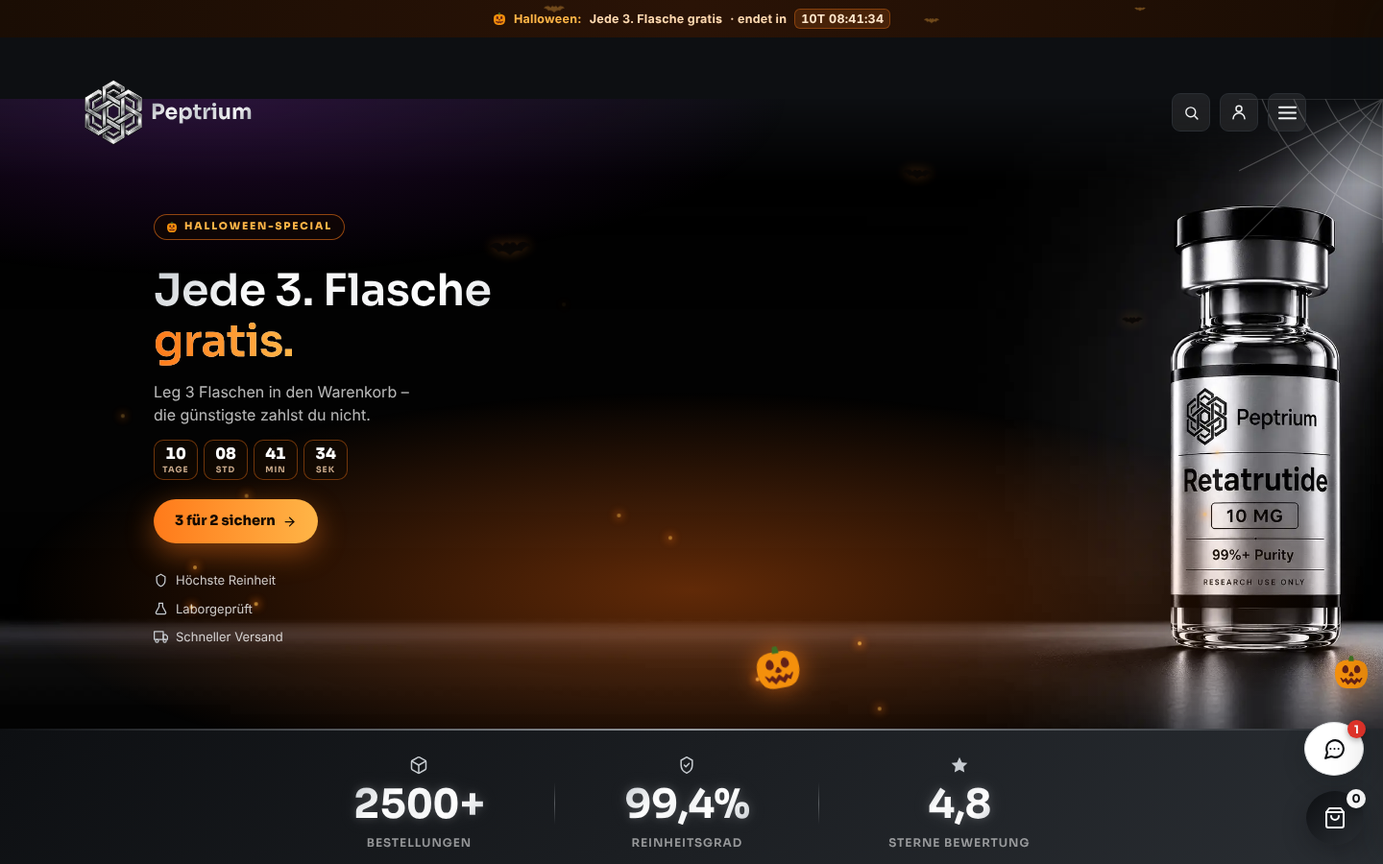
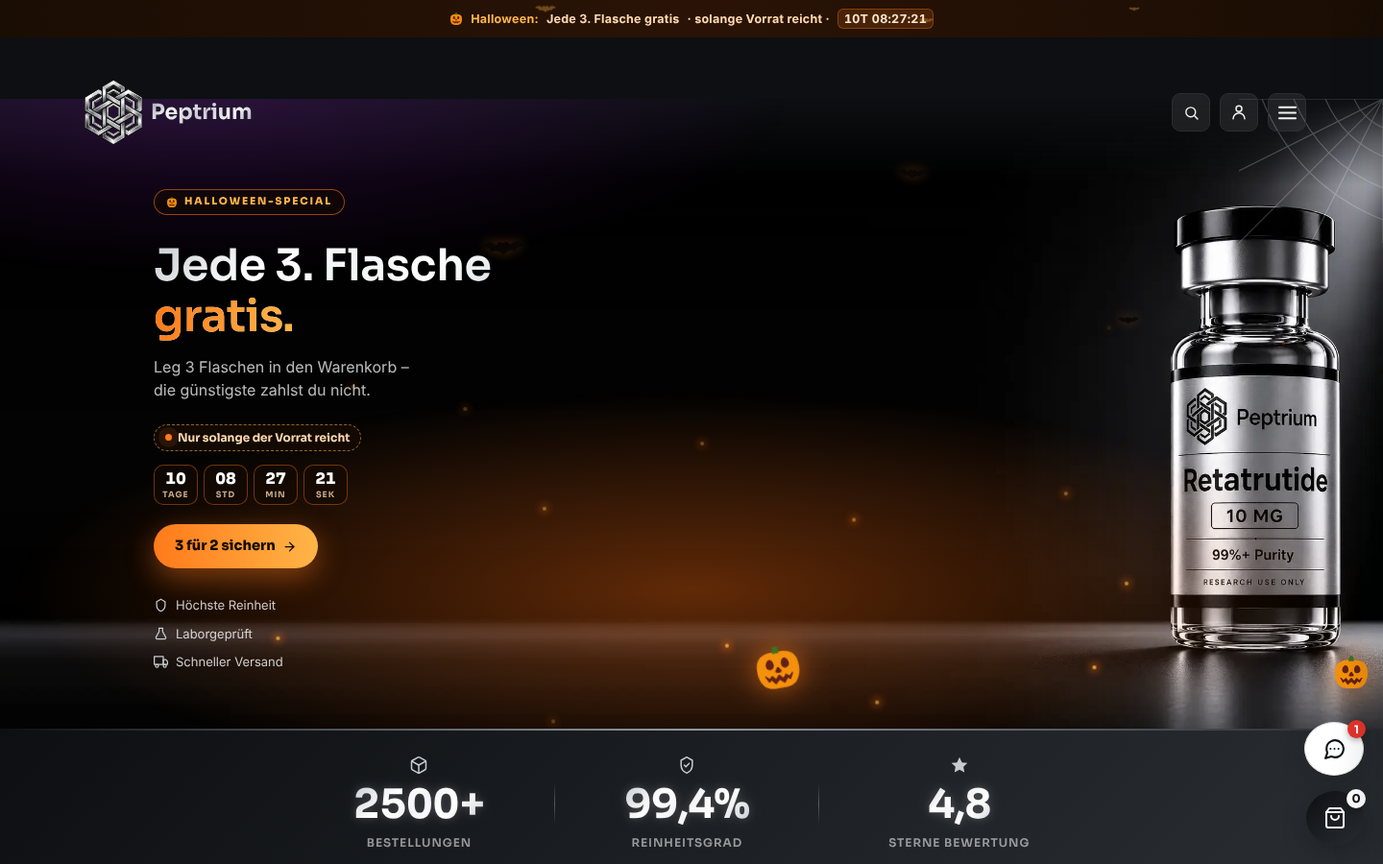
Halloween: Hinweis 'solange der Vorrat reicht'
Claude-Session: https://claude.ai/code/session_011YY7DBkbr5BcFGKyLoSbVN

Changed region(s): [[0.0938, 0.2178, 0.375, 0.7778], [0.3125, 0.0, 0.6875, 0.0311]]

diff --git a/drafts/halloween-2026-10-22/sp-halloween.php b/drafts/halloween-2026-10-22/sp-halloween.php
@@ -378,10 +378,14 @@ add_action('wp_head', function () {
 .sp-hw-ey{display:inline-flex;align-items:center;gap:7px;font:800 10.5px/1 Sora,-apple-system,sans-serif;letter-spacing:.18em;color:#FFB547;border:1px solid rgba(255,122,26,.55);background:rgba(20,10,2,.55);-webkit-backdrop-filter:blur(6px);backdrop-filter:blur(6px);border-radius:99px;padding:7px 12px;margin:0 0 12px}
 .sp-hw-g{background:linear-gradient(90deg,#FF7A1A,#FFB547)!important;-webkit-background-clip:text!important;background-clip:text!important;color:transparent!important;-webkit-text-fill-color:transparent!important}
 .sp-hero2-cta.sp-hw-cta,#sp-hero-banner .sp-hb-cta.sp-hw-cta{background:linear-gradient(90deg,#FF7A1A,#FFB547)!important;color:#140A02!important;font-weight:800!important;box-shadow:0 10px 30px rgba(255,122,26,.45)!important}
-.sp-hero2-cta-wrap.sp-hw-cw{flex-direction:column;align-items:center;gap:10px}
+.sp-hero2-cta-wrap.sp-hw-cw{flex-direction:column;align-items:center;gap:8px;bottom:64px!important}
 .sp-hw-hcd{display:flex;gap:6px;justify-content:center}
 .sp-hw-hcd span{min-width:46px;text-align:center;background:rgba(20,10,2,.6);-webkit-backdrop-filter:blur(8px);backdrop-filter:blur(8px);border:1px solid rgba(255,122,26,.4);border-radius:10px;padding:6px 4px;font:800 16px/1 Sora,-apple-system,sans-serif;color:#fff;font-variant-numeric:tabular-nums}
 .sp-hw-hcd small{display:block;font-size:8.5px;letter-spacing:.12em;color:#C9A98A;margin-top:4px;font-weight:700}
+.sp-hw-vr{display:inline-flex;align-items:center;gap:6px;margin-top:10px;font:700 12px/1 Sora,-apple-system,sans-serif;color:#FFD9B0;background:rgba(20,10,2,.88);border:1px dashed rgba(255,181,71,.55);border-radius:99px;padding:7px 11px}
+.sp-hw-cw .sp-hw-vr{margin-top:0}
+.sp-hw-vr i{width:7px;height:7px;border-radius:50%;background:#FF7A1A;box-shadow:0 0 0 0 rgba(255,122,26,.7);animation:sphwvr 1.6s infinite}
+@keyframes sphwvr{0%{box-shadow:0 0 0 0 rgba(255,122,26,.7)}70%{box-shadow:0 0 0 8px rgba(255,122,26,0)}100%{box-shadow:0 0 0 0 rgba(255,122,26,0)}}
 .sp-hw-hov{position:absolute;inset:0;pointer-events:none;z-index:0;overflow:hidden}
 .sp-hw-hov:before{content:'';position:absolute;inset:0;background:radial-gradient(70% 45% at 50% 78%,rgba(255,110,20,.38) 0%,rgba(255,110,20,0) 70%),radial-gradient(60% 40% at 15% 0%,rgba(110,30,150,.30) 0%,rgba(110,30,150,0) 70%);mix-blend-mode:screen}
 .sp-hw-hov .web{position:absolute;right:0;top:0;width:150px;height:150px;opacity:.22;transform:scaleX(-1)}
@@ -442,14 +446,14 @@ var bat='<svg viewBox="0 0 24 12" class="sp-hw-bat XX"><path d="M0 4C3 1 6 1 8 3
 var tb=document.getElementById('sp-top-banner');
 if(tb){tb.classList.add('sp-hw');var a=document.createElement('a');a.id='sp-hw-tb';a.href='/alle-produkte/';
  tb.insertAdjacentHTML('beforeend',bat.replace('XX','b1')+bat.replace('XX','b2')+bat.replace('XX','b3'));tb.appendChild(a);
- var tick=function(){if(live){var l=left(C.end);a.innerHTML='🎃 <b>Halloween:</b> Jede 3. Flasche gratis <span class="lg">· endet in</span> <span class="cd">'+(l.d?l.d+'T ':'')+pad(l.h)+':'+pad(l.m)+':'+pad(l.s)+'</span>';}
+ var tick=function(){if(live){var l=left(C.end);a.innerHTML='🎃 <b>Halloween:</b> Jede 3. Flasche gratis <span class="lg">· solange Vorrat reicht ·</span> <span class="cd">'+(l.d?l.d+'T ':'')+pad(l.h)+':'+pad(l.m)+':'+pad(l.s)+'</span>';}
   else{a.innerHTML='🎃 <b>Halloween-Special</b> ab '+C.startT+' <span class="lg">· Newsletter: schon '+C.earlyT+'</span>';}};
  tick();setInterval(tick,1000);}
 /* Streifen Startseite / Kategorie */
 function strip(mini){var s=document.createElement('section');s.className='sp-hw-strip'+(mini?' mini':'');
  var web='<svg class="web" viewBox="0 0 100 100" fill="none" stroke="#fff" stroke-width=".8"><path d="M0 0L100 100M0 0L50 100M0 0L100 50M0 0L0 100M0 0L100 0"/><path d="M0 20Q14 14 20 0M0 40Q28 28 40 0M0 62Q44 44 62 0M0 84Q60 60 84 0"/></svg>';
  if(live){s.innerHTML=web+'<div class="in"><span class="ey">🎃 HALLOWEEN-SPECIAL'+(C.state==='early'?' · EARLY ACCESS':'')+'</span><h2>Jede 3. Flasche <span>gratis.</span></h2>'
-  +(mini?'<p>Leg 3 Flaschen in den Warenkorb – die günstigste zahlst du nicht. Endet '+C.endT+' Uhr.</p>':'<p>Leg 3 Flaschen in den Warenkorb – die günstigste zahlst du nicht. Gilt für alle vorrätigen Peptid-Flaschen, auch gemischt. Nur bis '+C.endT+' Uhr.</p><div class="sp-hw-cd" id="sp-hw-cd2"></div><a class="sp-hw-btn" href="/alle-produkte/">Flaschen wählen →</a>')+'</div><div class="pk">🎃</div>';}
+  +(mini?'<p>Leg 3 Flaschen in den Warenkorb – die günstigste zahlst du nicht. Bis '+C.endT+' Uhr, solange der Vorrat reicht.</p>':'<p>Leg 3 Flaschen in den Warenkorb – die günstigste zahlst du nicht. Gilt für alle vorrätigen Peptid-Flaschen, auch gemischt. Nur bis '+C.endT+' Uhr und solange der Vorrat reicht.</p><div class="sp-hw-cd" id="sp-hw-cd2"></div><a class="sp-hw-btn" href="/alle-produkte/">Flaschen wählen →</a>')+'</div><div class="pk">🎃</div>';}
  else{s.innerHTML=web+'<div class="in"><span class="ey">🎃 BALD: HALLOWEEN-SPECIAL</span><h2>Jede 3. Flasche <span>gratis.</span></h2><p>Ab '+C.startT+' für alle. Newsletter-Abonnenten bekommen es schon '+C.earlyT+'.</p>'
   +(mini?'':'<a class="sp-hw-btn" href="#sp-nlh">Newsletter – früher dabei sein →</a>')+'</div><div class="pk">🎃</div>';}
  return s;}
@@ -467,6 +471,8 @@ if(C.home){var ht=0,hi=setInterval(function(){
  if(sub)sub.innerHTML=live?(mob?'Die günstigste zahlst du nicht.':'Leg 3 Flaschen in den Warenkorb –<br>die günstigste zahlst du nicht.'):(mob?'Ab '+C.startT+' · Insider schon '+C.earlyT:'Ab '+C.startT+' für alle.<br>Newsletter-Abonnenten schon '+C.earlyT+'.');
  if(cta){cta.classList.add('sp-hw-cta');if(live){cta.firstChild.nodeValue='3 für 2 sichern ';}else{cta.setAttribute('href','#sp-nlh');cta.firstChild.nodeValue='Früher dabei sein ';}
   var cw=cta.parentElement;if(mob&&cw)cw.classList.add('sp-hw-cw');
+  var vr='<div class="sp-hw-vr"><i></i>'+(live?'Nur solange der Vorrat reicht':'Begrenzter Vorrat – Insider kaufen zuerst')+'</div>';
+  if(mob&&cw)cw.insertAdjacentHTML('afterbegin',vr);else if(sub)sub.insertAdjacentHTML('afterend',vr);
   if(live){var hc=document.createElement('div');hc.className='sp-hw-hcd';cta.insertAdjacentElement('beforebegin',hc);
    var t3=function(){var l=left(C.end);hc.innerHTML='<span>'+l.d+'<small>TAGE</small></span><span>'+pad(l.h)+'<small>STD</small></span><span>'+pad(l.m)+'<small>MIN</small></span><span>'+pad(l.s)+'<small>SEK</small></span>';};t3();setInterval(t3,1000);}}
  if(wrap){var ov=document.createElement('div');ov.className='sp-hw-hov';var em='';for(var k=0;k<14;k++){em+='<i style="left:'+(5+Math.random()*90).toFixed(1)+'%;animation-delay:-'+(Math.random()*7).toFixed(2)+'s;animation-duration:'+(5+Math.random()*4).toFixed(2)+'s"></i>';}
@@ -480,7 +486,7 @@ var cd2=document.getElementById('sp-hw-cd2');if(cd2){var t2=function(){var l=lef
 (function(){var n=0,pi=setInterval(function(){var pp=document.getElementById('sp-nlp');if(!pp){if(++n>40)clearInterval(pi);return;}clearInterval(pi);
  var h=pp.querySelectorAll('.st[data-s="1"] h2,.st[data-s="2"] h2'),p1=pp.querySelector('.st[data-s="1"] p');
  if(live){h.forEach(function(e){e.innerHTML='Sichere dir <em>10 % Rabatt</em><br>für deine nächste Bestellung';});if(p1)p1.textContent='Halloween läuft gerade – dein persönlicher Code gilt danach noch 30 Tage. Dazu Neuheiten und Aktionen zuerst.';}
- else{h.forEach(function(e){e.innerHTML='🎃 Halloween <em>früher</em><br>für Insider';});if(p1)p1.textContent='Jede 3. Flasche gratis – als Newsletter-Abonnent bist du schon '+C.earlyT+' dabei, alle anderen erst ab '+C.startT+' Dazu dein 10-%-Code für später.';
+ else{h.forEach(function(e){e.innerHTML='🎃 Halloween <em>früher</em><br>für Insider';});if(p1)p1.textContent='Jede 3. Flasche gratis – als Newsletter-Abonnent bist du schon '+C.earlyT+' dabei, alle anderen erst ab '+C.startT+' Der Vorrat ist begrenzt – Insider haben die erste Wahl. Dazu dein 10-%-Code für später.';
  var b1=pp.querySelector('.st[data-s="1"] button');if(b1&&!/nein/i.test(b1.textContent))b1.textContent='Ja, früher dabei sein';}
 },150);})();
 if(!live)return;
@@ -499,7 +505,7 @@ var own=0;function fix(){if(own||!tot||!qf||!pe)return;var q=parseInt(qf.value,1
  own=1;tot.textContent=fm(u*(q-fr)+add);if(sav){if(fr>0){sav.style.display='';sav.textContent='🎃 '+fr+'× gratis – du sparst '+fm(u*fr);}else{sav.style.display='none';}}setTimeout(function(){own=0},0);}
 if(C.pp&&tot){new MutationObserver(fix).observe(tot,{childList:true,characterData:true,subtree:true});fix();}
 /* Buybox-Hinweis */
-if(C.pp){var bb=document.getElementById('rx-buybox');if(bb&&!document.getElementById('sp-hw-bb')){bb.insertAdjacentHTML('afterbegin','<div id="sp-hw-bb"><b>🎃 HALLOWEEN-SPECIAL</b>Jede 3. Flasche gratis – leg 3 Flaschen in den Warenkorb, die günstigste zahlst du nicht. Auch gemischt mit anderen Peptiden.</div>');}}
+if(C.pp){var bb=document.getElementById('rx-buybox');if(bb&&!document.getElementById('sp-hw-bb')){bb.insertAdjacentHTML('afterbegin','<div id="sp-hw-bb"><b>🎃 HALLOWEEN-SPECIAL</b>Jede 3. Flasche gratis – leg 3 Flaschen in den Warenkorb, die günstigste zahlst du nicht. Auch gemischt mit anderen Peptiden. Nur solange der Vorrat reicht.</div>');}}
 /* Warenkorb-Hinweis */
 var busy=0;function cart(){if(busy)return;busy=setTimeout(function(){busy=0;fetch('/wp-json/wc/store/v1/cart',{credentials:'same-origin'}).then(function(r){return r.json()}).then(function(c){
  var n=0;(c.items||[]).forEach(function(it){if(ids[it.id]&&parseInt(it.prices&&it.prices.regular_price||0,10)>0&&!(it.item_data||[]).some(function(d){return /Geschenk/i.test(d.name||d.key||'')}))n+=it.quantity;});

diff --git a/CLAUDE.md b/CLAUDE.md
@@ -248,7 +248,7 @@ ones with established, understood behavior from this engagement. Run a
 | `sp-ek-marge.php` | (2026-10-18, live, user: "brutto bzw richtigen netto Umsatz abzüglich EK") **Peptrium Dashboard → Umsatz & Marge** — **redesigned 2026-10-18 (user: 'komplett verwirrend … schöner')**: page title 'Umsatz & Gewinn', period chips, 3 cards with waterfall rows (`.spm-*` CSS, bars = share of revenue, one-line 'why' per row): 1. 'Was du verdient hast' Umsatz − Ware − Provisionen − Versand & Verpackung = Gewinn; 2. 'Was davon wirklich auf dem Konto ist' Eingenommen − Einkäufe bezahlt − An Partner überwiesen − Versand = Geld übrig + 'Warum anders als der Gewinn?' (Einkäufe − Wareneinsatz = mehr eingekauft als verkauft; Provision verdient − überwiesen); 3. 'Wenn das Lager verkauft wird' 3 boxes (kommt noch rein Lager / + unterwegs, Geld übrig danach). Product/order/EK tables unchanged below. (`admin.php?page=sp-umsatz-marge`, default this month, quick links Letzter Monat / Seit Start). EK per product/variation in option `sp_ek_items` [post_id => usd/eur/code] — seeded from the user's supplier Excel (column "Flasche $: 1–30"): 555 RT10 9.5 $, 556 RT20 12.2, 1011 CU50 3.3, 1012 CU100 6.5, 71 MS10 7.1, 77 CP10 10, 428 BC10 6.5, 577 BT10 17.5, 578 BT5 9, 434 XA10 8, 437 SK10 8, 515 KP10 6.5, 512 TSM10 18, 521 IG1 20. **Added 2026-10-18 (user prices, €):** pens are assembled in-house from the peptide bottle + pen (10 Stk 25 € → 2,50) + cartridge (30 Stk 14 € → 0,4667) → pen variations 547/548/549 (RT20/30/40), 597/598 (CU50/100), 544/545 (MS20/40) = usd of the bottle + field `add` 2.9667 €; Spritzen 100 Stk 25 € → product 80 (10er) 2,50 €; Pen Nadeln 100 Stk 15 € → 908 (15er) 2,25 €; Injektionskit 745 = ASSUMPTION 10 Spritzen 2,50 € (contents unconfirmed); costs: DHL DE 6,19 / AT 14,90 (`ship_order_at`, by shipping country), packaging 0,20 €/package (100 Stk 20 €), import_pct 0. **Update 2026-10-18:** Bac Water 74 = 1 $ (user); every pen also contains one Bac Water → pen usd = bottle + 1 $; Alkoholtupfer 400 Stk 5 € → Injektionskit 745 = 10 Spritzen + 10 Tupfer = 2,625 € (still an assumption about the contents). ALL bottles (peptides + Bac Water) are bought in USD → keep them in the `usd` field; only Spritzen/Nadeln/Pen/Kartusche/Tupfer/Verpackung/DHL are €. Now every sold item has an EK. Later the same day: Injektionskit 745 = 10 Spritzen + 1 Bac Water + Tupfer (usd = Bac, add 2,625 €); Bac Water shipping 70 $ for 120 bottles → Bac = 1,5833 $ (74, pens = bottle + 1,5833 $, 745). Peptide shipping from the supplier was free; the user will send the stock quantities bought later. All editable in the EK table on that page ($ or €). USD→EUR from open.er-api.com (daily cron `sp_ek_rate_update`, option `sp_ek_rate`, manual override `sp_ek_rate_manual`). Costs option `sp_ek_costs` (import_pct, ship_order, pack_order). On processing/completed the unit EK is written to item meta `_sp_ek_eur` (snapshot, so later EK changes don't rewrite past months); older items use the current EK ("geschätzt"). Old GHK-Cu items (simple product 68) fall back via `sp_bbv_legacy_variation()`. Figures per order (`sp_ek_order_figures()`): Umsatz = total − refunds − top-up part (no VAT — shop has tax off), wallet-paid Abo deliveries count, top-up-only and `_sp_is_test` orders excluded; gifts count toward EK; partner commissions = non-rejected `wp_slicewp_commissions` with reference = order id; line revenue scaled by the partner negative fee. First run (Seit Start, 44 orders): Umsatz 8.093,67 €, EK 499,24 € (97 items without EK!), Provisionen 1.174,81 €. |
 | `sp-lager.php` | (2026-10-18, live, user: "ja richtig") **Peptrium Dashboard → Lager** (`admin.php?page=sp-lager`). Stock on MATERIAL level: option `sp_lager_mats` [code => name, usd|eur, qty (null = not tracked)] — codes = supplier codes (RT10/RT20/RT30/RT40, CU50/CU100, MS10/20/40, CP10, BC10, BT10/BT5, XA10, SK10, KP10, TSM10, IG1, CGL10 Cagrilintide, ML10 Melanotan 2, K80 Klow — the last 3 not in the shop) + BAC (1,5833 $), PEN/KART/SPR/NAD/TUPF (€, not counted yet → null). Recipes `sp_lager_recipes()` per product/variation id (pens = bottle + BAC + PEN + KART; 80 = 10 SPR; 908 = 15 NAD; 745 = 10 SPR + 1 BAC + 10 TUPF; legacy 68 via `sp_bbv_legacy_variation`). Deducted when an order goes to **completed** (= shipped; meta `_sp_lager_out`, only if completed after option `sp_lager_since` = 2026-10-18 12:37), added back on cancelled/refunded/failed. Columns: Bestand, reserviert (processing orders), verfügbar, unterwegs, Verkauf 30 Tage (incl. gifts), reicht noch (yellow < 21 d). Deliveries in option `sp_lager_in` (button "Angekommen – einbuchen"); seeded: Peptid-Lieferant 18.10. (RT10 40, RT20 30, CGL10 10, BC10 10, CU50 40, ML10 10, K80 10, BAC 20) + Bac-Lieferant (BAC 120). Start count 18.10.: RT10 50, RT20 30, CU100 10, BAC 40, all other bottles 0. Warning box lists in-stock shop products whose material is empty (at seed: GHK-Cu 50 + GHK pen 50, MOTS-c 10 + MOTS pens, Reta pens 30/40, CJC) — shop stock status NOT changed automatically (asked the user). Log option `sp_lager_log`. User 2026-10-18: no pre-assembled pens (assembled only when an order comes in → recipe deduction is right); accessories (PEN/KART/SPR/NAD/TUPF) are in stock but NOT counted yet → stay null until the user sends counts. **Purchases are paid when ordered (user 2026-10-18):** each delivery stores `paid` (€, frozen at creation, editable on the card; date = ordered & paid) — seeded 1.248,11 € (1403 $) + 169,02 € (190 $); 'Angekommen' only books stock. `sp_lager_purchases($start,$end)` feeds a **'Geldfluss im Zeitraum'** box in Umsatz & Marge: Eingenommen − Einkäufe bezahlt − An Partner überwiesen (`sp_aff_transfers` by date) − Versand & Verpackung = Geld übrig (the 'Ergebnis' above stays accrual: EK counted when sold). Delivery dates were assumed 18.10. — ask the user for the real order dates/amounts. **Abverkauf-Wert (2026-10-18, user):** tiles 'Umsatz bei Abverkauf – Lager' / '… inkl. unterwegs' + Rohertrag; VK per material = optional field `vk` (column 'VK €') else the shop price of the product whose recipe is exactly [code=>1] (`sp_lager_vk()`; RT20 counted as vial, not pen); regular prices, no discounts/gifts/commission. At build: Lager 9.237 €, incl. unterwegs 19.901,20 €; CGL10/ML10/K80 have no VK (not in shop) → excluded until a VK is entered. **Umsatz & Marge also shows 'Wenn das Lager komplett verkauft wird'** (via `sp_lager_summary()`): Listenpreis → realistic revenue = list × realisation ratio of the last 90 days (line revenue ÷ regular price × qty, catches bundle/partner discounts, codes, gifts; 89 % at build) − commissions at the 90-day share (14,5 %) = 'kommt noch rein'; **EK is NOT deducted there** (user 2026-10-18: purchases are already paid → shown only as grey 'Einkaufswert (schon bezahlt)'), plus 'Geld übrig danach' = Geldfluss 'Geld übrig' of the selected period + 'kommt noch rein'. Shipping not deducted. At build (Oct): kommt noch rein 7.029 € (Lager) / 15.143 € (incl. unterwegs); Geld übrig danach 10.066 € / 18.181 €. Material prices are separate from `sp_ek_items` (duplicate on purpose; keep both in sync when prices change). |
 | `sp-wartung.php` | (2026-10-19, live, OFF by default) **Wartungsmodus** after the AlexHost KVM maintenance reboot (server down ~5 min 19.10. ~15:50 Berlin; all services auto-started, nothing to reconfigure). Peptrium Dashboard → Wartungsmodus (`admin.php?page=sp-wartung`): on/off, page text, auto-off after 30 min/1/2/4 h/never (option `sp_wartung` on/until/text/by/since). When on: visitors get the dark Peptrium maintenance page (logo, "Wir sind gleich wieder für dich da.", 60 s auto-reload, Telegram + mail) with HTTP 503, `Retry-After: 600`, `X-SP-Wartung: 1`, noindex (template_redirect prio −999); admins (`manage_woocommerce`) see the shop + red bottom bar + admin-bar node; untouched: wp-admin, login, REST/Store API, admin-ajax, cron, wc-api, `?sp_health=1`. Preview for admins: `/?sp_wartung_vorschau=1`. Tested live with a 15 s auto-off window. **Unplanned server outage:** WordPress can't answer then → same page as a **Cloudflare Worker** `drafts/wartungsseite-2026-10-19/peptrium-wartung-worker.js` (logo base64-embedded, passes everything through, replaces only HTML GET responses with status 502/503/504/520–526 or a thrown fetch; skips wp-admin/wp-json/wp-content/wp-includes/login/cron, `sp_health`, and 503s carrying `X-SP-Wartung`). Must be created by the user in Cloudflare (Workers & Pages → create → paste → route `peptrium.com/*` + `www.peptrium.com/*`, failure mode open; free plan 100k requests/day — optionally add a route `peptrium.com/wp-content/*` with no Worker to save requests). Logic unit-tested locally with mocked fetch. |
-| `sp-halloween.php` | (2026-10-22, live but **OFF**, user: jede 3. gratis (die günstigste), Partner +5 %, Early Access ja, Halloween-Look, alles mit einem Schalter) **Halloween-Modus** — Peptrium Dashboard → 🎃 Halloween (`admin.php?page=sp-halloween`), option `sp_hw` {on, deko, early/start/end timestamps (default Do 29.10. 18:00 / Fr 30.10. 00:00 / So 1.11. 23:59 Berlin), bonus 5, ea + pv tokens}, log `sp_hw_log`. States `sp_hw_state()`: off/teaser/early (only with EA cookie)/live/ended; `sp_hw_active()` = live or early. **Pricing:** `woocommerce_before_calculate_totals` prio 25 (after sp-quantity-discount 20, before gift tiers 30): eligible units (`sp_hw_product_eligible()`: published, not on sale, not Zubehör cat 20, not `sp_preorder_product_ids()`, not ids 729/817/745/908/74/80/393/395/396; skips gift lines `sp_is_gift` and Abo lines) get their REGULAR price back (cancels the bundle discount), then floor(n/3) cheapest units free via set_price; `line_subtotal` restored to regular (prio 30) so the drawer shows savings; cart item key `sp_hw_free`, item data 'Halloween: N× gratis 🎃', order item meta 'Halloween-Angebot', order meta `_sp_hw` (free count) + `_sp_hw_phase`. Gift tiers count the PAID amount. **Codes:** while active all coupons invalid (`woocommerce_coupon_is_valid` false + `woocommerce_coupon_error` message) EXCEPT partner coupons (`_sp_affiliate_id` meta) which stay valid with 0 € discount (attribution kept, own success message); 10-%-Empfehlungs-Rabatt fee removed (fees prio 98); `slicewp_calculate_commission_amount` prio 30 adds bonus × item amount (at checkout time). **Links:** Early Access `/?sp_hw=frueh&k=<ea>` → cookie `sp_hw_ea` (until end+1 d) → 302 /alle-produkte/ (utm kept); preview `/?sp_hw=vorschau&k=<pv>` → cookie `sp_hw_pv` 24 h = everything live for that browser even when OFF; `/?sp_hw=aus` ends it (links shown on the admin page). **Look (`deko`):** top banner `#sp-top-banner` gets class `sp-hw` + own link `#sp-hw-tb` (countdown / teaser text) + 3 flying bat SVGs; **homepage HERO takeover** (user 2026-10-22: Halloween must be visible without scrolling): JS polls for the mobile hero `.sp-hero2` (sp-home-hero-mobile.php, title/sub/cta) or desktop `#sp-hero-banner .sp-hb-*` and sets eyebrow pill '🎃 HALLOWEEN-SPECIAL', title 'Jede 3. Flasche <orange>gratis.</orange>', sub (mobile short 'Die günstigste zahlst du nicht.' — longer text overlapped the vials), orange CTA '3 für 2 sichern' (teaser: 'Früher dabei sein' → #sp-nlh), countdown chips, overlay `.sp-hw-hov` (orange/purple glow, cobweb, 3 flying bats, rising embers, pumpkins desktop only); the old strip `.sp-hw-strip` is only a fallback if no hero is found; mini strip after the `#sp-cat` hero on categories/alle-produkte; card badge '🎃 3 für 2' on `.sp-pc[data-id]` in `sp_hw_eligible_ids()` (transient `sp_hw_ids_v1` 10 min) + card text 'ab 3 Stück…' → '🎃 Jede 3. Flasche gratis'; drawer 'Bundle −X%' → '🎃 Halloween'; buybox: output buffer (template_redirect prio 7) sets tier data-disc to 0 + labels '1 gratis/1 gratis/3 gratis', flag '🎃 Halloween', JS fixes `#rx-total`/`#rx-save` (buybox JS only knows integer % of the largest tier) + box `#sp-hw-bb`; drawer box `#sp-hw-cd` (Store API cart count, 'Noch N Flaschen, dann ist eine gratis'). Tested 2026-10-22 in preview via Store API (`drafts/halloween-2026-10-22/storetest.sh`): 3× Reta10 → 149,80; 2× Reta20 + GHK50 → GHK free; 6 mixed → 2 cheapest free; TIKTOK10 rejected with message; SCHLANK10 accepted, 0 €; pens/Bac untouched. Eligible at build: CJC, Mots-C, GHK-Cu 50/100, Reta 10/20 (shop stock status — Lager says CJC/Mots/GHK50 bottles are 0!). **Added 2026-10-22 (user: "ja mach"):** (a) newsletter popup copy per phase (JS on `#sp-nlp`): teaser = '🎃 Halloween früher für Insider' + early/start dates + button 'Ja, früher dabei sein'; live = '10 % Rabatt für deine nächste Bestellung' (codes don't work during the action, code valid 30 days); (b) confirming the newsletter during teaser/early (`?sp_nl=danke`, init prio 2) sets the `sp_hw_ea` cookie → early access on that device; (c) checkout row `#sp-hw-co` '🎃 Halloween: N Flasche(n) gratis −X €' before the total (wp.data cart store, throttled subscribe; only when active, independent of `deko`); (d) preview can show the teaser phase: `/?sp_hw=vorschau&s=teaser&k=<pv>` (cookie `sp_hw_pvs`). Note: the checkout item line shows the REGULAR line total (224,70 for 3× Reta) + 'Spare' badge because `line_subtotal` is restored — same as the existing bundle discount behaviour; Zwischensumme is correct. Open: mails (teaser 28.10., early access 29.10. 18:00, last chance), partner info mail, user's go. |
+| `sp-halloween.php` | (2026-10-22, live but **OFF**, user: jede 3. gratis (die günstigste), Partner +5 %, Early Access ja, Halloween-Look, alles mit einem Schalter) **Halloween-Modus** — Peptrium Dashboard → 🎃 Halloween (`admin.php?page=sp-halloween`), option `sp_hw` {on, deko, early/start/end timestamps (default Do 29.10. 18:00 / Fr 30.10. 00:00 / So 1.11. 23:59 Berlin), bonus 5, ea + pv tokens}, log `sp_hw_log`. States `sp_hw_state()`: off/teaser/early (only with EA cookie)/live/ended; `sp_hw_active()` = live or early. **Pricing:** `woocommerce_before_calculate_totals` prio 25 (after sp-quantity-discount 20, before gift tiers 30): eligible units (`sp_hw_product_eligible()`: published, not on sale, not Zubehör cat 20, not `sp_preorder_product_ids()`, not ids 729/817/745/908/74/80/393/395/396; skips gift lines `sp_is_gift` and Abo lines) get their REGULAR price back (cancels the bundle discount), then floor(n/3) cheapest units free via set_price; `line_subtotal` restored to regular (prio 30) so the drawer shows savings; cart item key `sp_hw_free`, item data 'Halloween: N× gratis 🎃', order item meta 'Halloween-Angebot', order meta `_sp_hw` (free count) + `_sp_hw_phase`. Gift tiers count the PAID amount. **Codes:** while active all coupons invalid (`woocommerce_coupon_is_valid` false + `woocommerce_coupon_error` message) EXCEPT partner coupons (`_sp_affiliate_id` meta) which stay valid with 0 € discount (attribution kept, own success message); 10-%-Empfehlungs-Rabatt fee removed (fees prio 98); `slicewp_calculate_commission_amount` prio 30 adds bonus × item amount (at checkout time). **Links:** Early Access `/?sp_hw=frueh&k=<ea>` → cookie `sp_hw_ea` (until end+1 d) → 302 /alle-produkte/ (utm kept); preview `/?sp_hw=vorschau&k=<pv>` → cookie `sp_hw_pv` 24 h = everything live for that browser even when OFF; `/?sp_hw=aus` ends it (links shown on the admin page). **Look (`deko`):** top banner `#sp-top-banner` gets class `sp-hw` + own link `#sp-hw-tb` (countdown / teaser text) + 3 flying bat SVGs; **homepage HERO takeover** (user 2026-10-22: Halloween must be visible without scrolling): JS polls for the mobile hero `.sp-hero2` (sp-home-hero-mobile.php, title/sub/cta) or desktop `#sp-hero-banner .sp-hb-*` and sets eyebrow pill '🎃 HALLOWEEN-SPECIAL', title 'Jede 3. Flasche <orange>gratis.</orange>', sub (mobile short 'Die günstigste zahlst du nicht.' — longer text overlapped the vials), orange CTA '3 für 2 sichern' (teaser: 'Früher dabei sein' → #sp-nlh), countdown chips, overlay `.sp-hw-hov` (orange/purple glow, cobweb, 3 flying bats, rising embers, pumpkins desktop only); the old strip `.sp-hw-strip` is only a fallback if no hero is found; mini strip after the `#sp-cat` hero on categories/alle-produkte; card badge '🎃 3 für 2' on `.sp-pc[data-id]` in `sp_hw_eligible_ids()` (transient `sp_hw_ids_v1` 10 min) + card text 'ab 3 Stück…' → '🎃 Jede 3. Flasche gratis'; drawer 'Bundle −X%' → '🎃 Halloween'; buybox: output buffer (template_redirect prio 7) sets tier data-disc to 0 + labels '1 gratis/1 gratis/3 gratis', flag '🎃 Halloween', JS fixes `#rx-total`/`#rx-save` (buybox JS only knows integer % of the largest tier) + box `#sp-hw-bb`; drawer box `#sp-hw-cd` (Store API cart count, 'Noch N Flaschen, dann ist eine gratis'). Tested 2026-10-22 in preview via Store API (`drafts/halloween-2026-10-22/storetest.sh`): 3× Reta10 → 149,80; 2× Reta20 + GHK50 → GHK free; 6 mixed → 2 cheapest free; TIKTOK10 rejected with message; SCHLANK10 accepted, 0 €; pens/Bac untouched. Eligible at build: CJC, Mots-C, GHK-Cu 50/100, Reta 10/20 (shop stock status — Lager says CJC/Mots/GHK50 bottles are 0!). **Added 2026-10-22 (user: "ja mach"):** (a) newsletter popup copy per phase (JS on `#sp-nlp`): teaser = '🎃 Halloween früher für Insider' + early/start dates + button 'Ja, früher dabei sein'; live = '10 % Rabatt für deine nächste Bestellung' (codes don't work during the action, code valid 30 days); (b) confirming the newsletter during teaser/early (`?sp_nl=danke`, init prio 2) sets the `sp_hw_ea` cookie → early access on that device; (c) checkout row `#sp-hw-co` '🎃 Halloween: N Flasche(n) gratis −X €' before the total (wp.data cart store, throttled subscribe; only when active, independent of `deko`); (e) honest scarcity 'solange der Vorrat reicht' (user 2026-10-22, true — stock is limited): pill `.sp-hw-vr` in the hero (mobile: first child of the CTA wrap, which is moved to bottom 64px; desktop: under the sub) — live 'Nur solange der Vorrat reicht', teaser 'Begrenzter Vorrat – Insider kaufen zuerst'; also in the live top banner, buybox box, strips and the teaser popup text; (d) preview can show the teaser phase: `/?sp_hw=vorschau&s=teaser&k=<pv>` (cookie `sp_hw_pvs`). Note: the checkout item line shows the REGULAR line total (224,70 for 3× Reta) + 'Spare' badge because `line_subtotal` is restored — same as the existing bundle discount behaviour; Zwischensumme is correct. Open: mails (teaser 28.10., early access 29.10. 18:00, last chance), partner info mail, user's go. |
 | `sp-indexnow.php` | (2026-10-11, live) **IndexNow** (Bing, Yandex, Seznam, Naver; DuckDuckGo/Ecosia/Yahoo/ChatGPT search use Bing — Google does NOT use IndexNow). Key in option `sp_indexnow_key` (32 hex), served as `/<key>.txt` by an `init` hook (prio 0, no rewrite). `save_post` on published, visible products/pages → submits the permalink on `shutdown` (max once per URL per 10 min, transient `sp_inx_<md5>`). `sp_indexnow_submit_all()` sends every sitemap URL (`sp_indexnow_all_urls()` walks the core sitemap providers, so it inherits the sitemap filters) — run once on 2026-10-11: 61 URLs → HTTP 202. Last result in option `sp_indexnow_last`. Context: user set up Bing Webmaster Tools via "Import from Google Search Console" (Google login) the same day; Cloudflare AI Crawl Control: Search + Agent = Allow, Training = Block (OpenAI/Anthropic/Perplexity), Bot Fight Mode off, Bot Preference Sync off. |
 | `sp-compliance.php` | (2026-10-11, live, user: "ja mach") **Render-time compliance fixes** (output buffer `template_redirect` prio 3 + `wp_mail` filter; no Elementor data touched). (1) Retatrutide: the `.sp-reta-desc` block containing "Abnehm-Peptide"/"24 % Körpergewichtsreduktion" is removed. (2) Peptrium-Pens: dose table `.sp-dose-table`, `.sp-dose-sub`, `.sp-dose-common` removed, title "Technische Referenz – Dosiszähler" → "Technische Daten", table rows "Maximale Dosen" and "Verabreichung (subkutan)" removed (device feature "Dosiszähler – exakt per Klick" stays). (3) **COAs don't exist yet** → while option `sp_cmp_coa` ≠ `'show'`: `.rx-coa-box` (disabled PDF button boxes, COA + CE) removed, FAQ `<details>` "Was ist ein Analysezertifikat (COA)?" removed, ~35 exact phrases in `sp_cmp_coa_map()` neutralised to "HPLC-/LC-MS-geprüft" (incl. "Janoshik" lab name on Über uns, fake-review sentences about certificates, "vollständigem Impressum" claim); mails via `sp_cmp_mail_map()`. Set `sp_cmp_coa`='show' once real COAs exist. (4) Menu: the "Nach Ziel suchen" drawer group (old goal labels "Gewichtsmanagement", "Fettverbrennung", "Anti-Aging", "Heilung") is rebuilt SERVER-SIDE as "Forschungsbereiche" with `sp_ds_menu_cats()` links (same markup as the sp-ds.php JS). Helper `sp_cmp_cut()` removes an element by depth-counting its tag. Also on 2026-10-11: product short descriptions (post_excerpt) rewritten without COA/skin claims (old in meta `_sp_excerpt_backup_20261011`; GHK-Cu no longer promises "glattere Haut"; Injektionskit no "Injizieren"); **category 17 renamed "Fettverlust" → "Stoffwechsel"** (slug `fettverlust` unchanged, old name in option `sp_cat17_name_backup`). |
 | `sp-product-about.php` | (2026-10-11, live, area `katalog`) The Elementor product templates never rendered the WooCommerce description → this shows `post_content` as section `#sp-pp-about` ("Produktinfo / Über <Name>", light card, collapsed to 300px with "Weiterlesen" when long, 2 columns ≥1024px), printed in `wp_footer` (server-side HTML for Google) and moved into `.pp-root` by JS; CSS `order:3!important` (**CSS order must be an integer** — 3.5 was silently ignored; `body.single-product .pp-root>*{order:50}` in pp.css), lands after "Passt dazu" sets, before the Lexikon. All 17 visible products got NEW descriptions (~200–250 words, du-form, research framing only: what it is, what is studied, Lieferform/Rekonstitution with links to Bac Water + Peptid-Rechner, Lagerung → Lagerungs-Guide, HPLC/LC-MS quality, Lexikon link, lab-only note; no effects, no dosing, no COA) — source `scratchpad/ptext2/texts.py`, copy in `drafts/produkttexte-2026-10-11.json`; old texts in meta `_sp_desc_backup_20261011`. **New products: fill the "Beschreibung" field → section appears automatically** (min 80 chars). |
